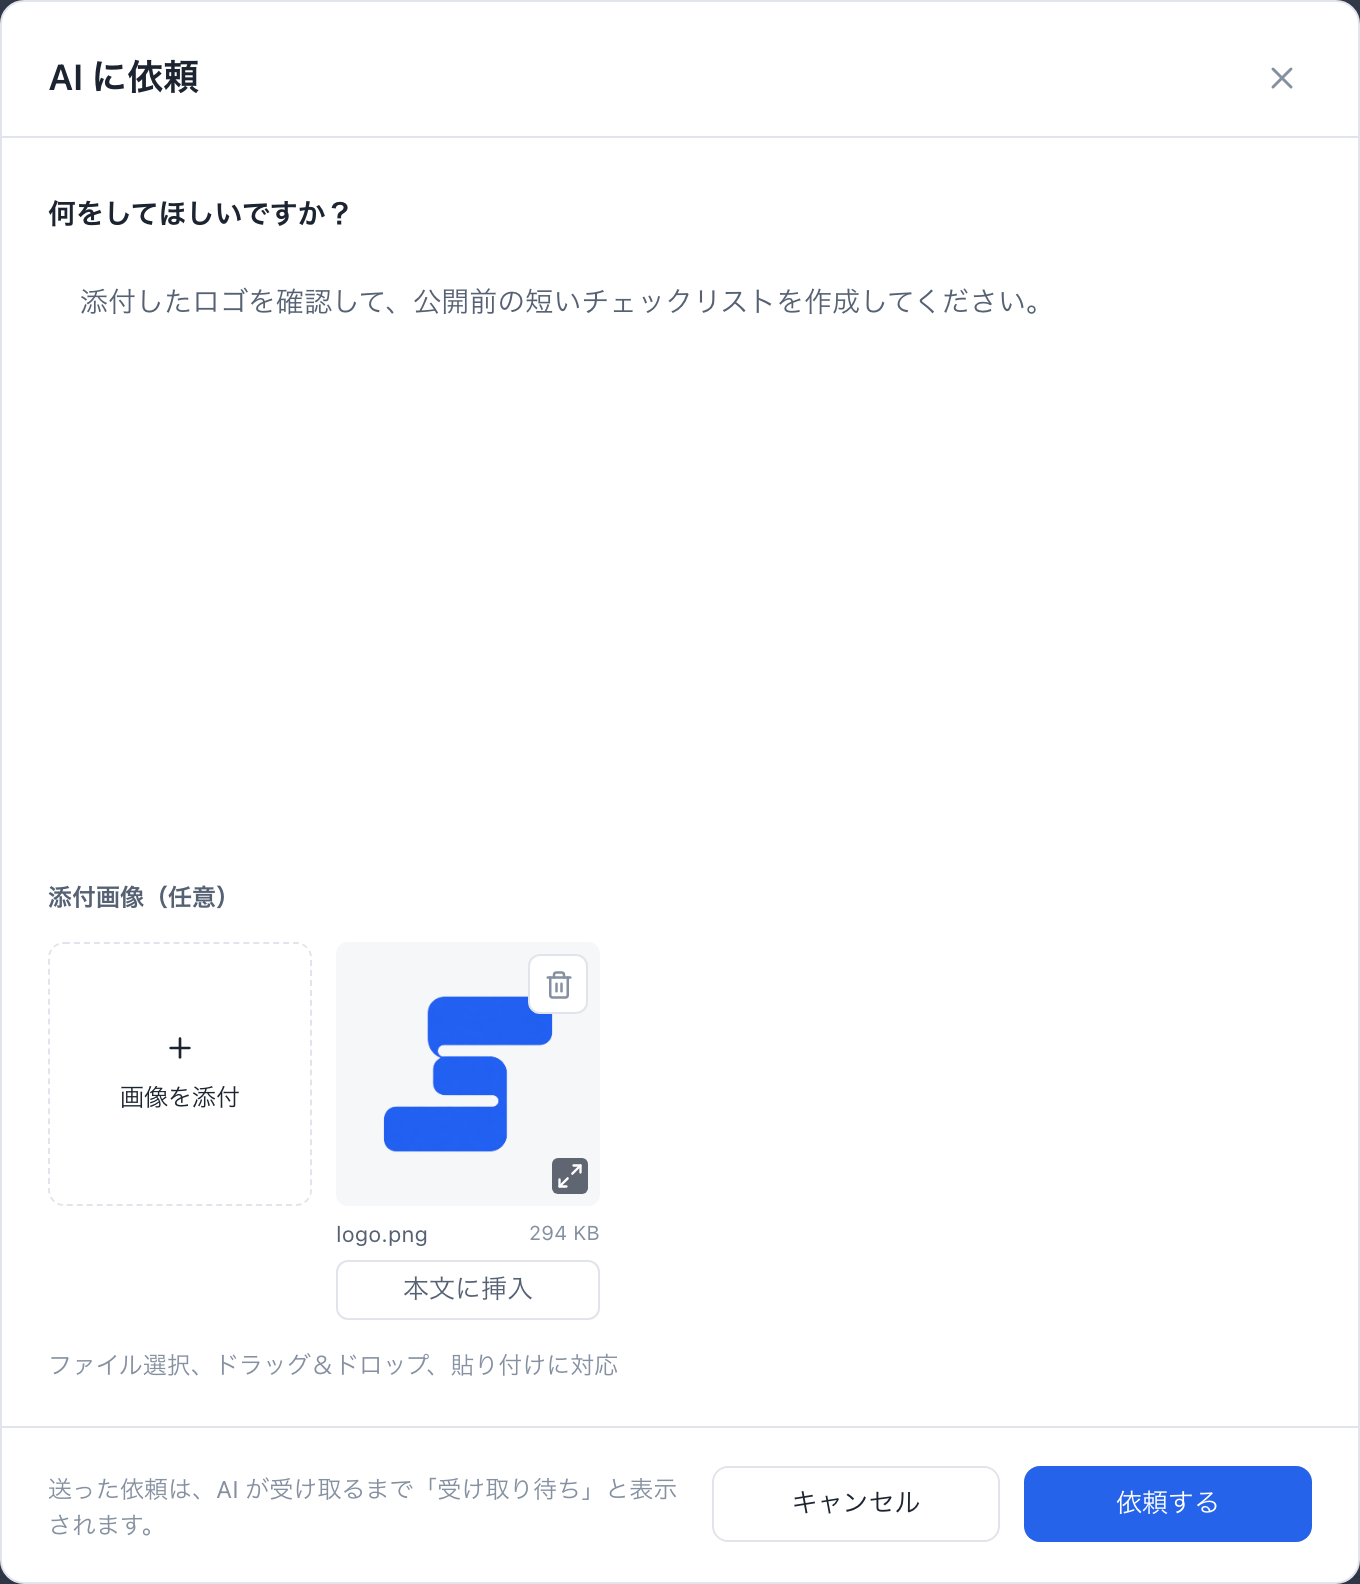
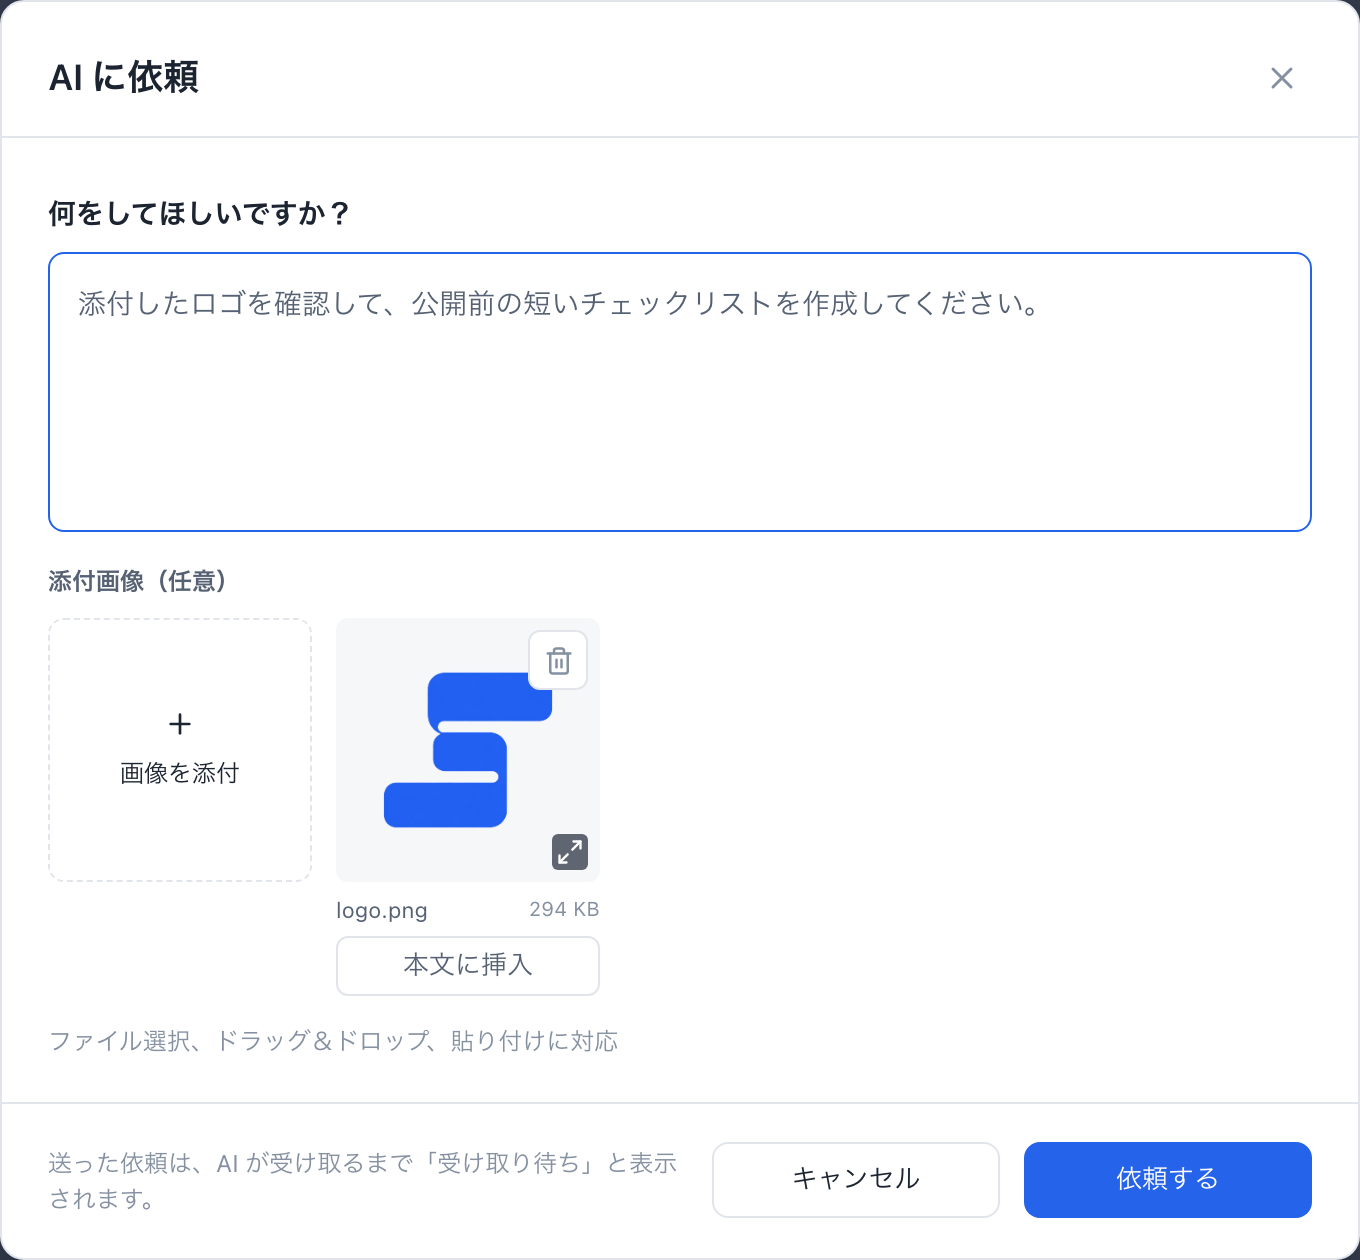
fix(web): align and outline the Ask AI input, one send button on the phone sheet
The input box now has a visible outline in light and dark themes, grows with
its text, and starts its first heading on the top padding. The images sit
under the box on the same left edge in the sheet as well as the dialog. The
phone sheet keeps a single full-width Send request; its close button cancels.

diff --git a/web/src/features/messages/ask/AskAi.stories.tsx b/web/src/features/messages/ask/AskAi.stories.tsx
@@ -120,14 +120,29 @@ export const DialogSendFailed: Story = {
   },
 };
 
-/** The bottom sheet for a phone. */
+/** The bottom sheet for a phone: one full-width send button, the close button cancels, and the
+ * label, the input box, and the images share one left edge. */
 export const Sheet: Story = {
   args: { kind: 'sheet' },
   parameters: { storyFrame: 'monitor' },
   globals: { width: 'phone-375' },
   play: async () => {
-    await expect(await page().findByRole('dialog', { name: 'Ask AI' })).toBeInTheDocument();
-    await expect(page().getByRole('button', { name: 'Send request' })).toBeVisible();
+    const sheet = await page().findByRole('dialog', { name: 'Ask AI' });
+    const send = page().getByRole('button', { name: 'Send request' });
+    await expect(send).toBeVisible();
+    await expect(page().queryByRole('button', { name: /^Cancel$/ })).toBeNull();
+    const left = (selector: string) => {
+      const element = sheet.querySelector(selector);
+      if (element === null) throw new Error(`${selector} is missing`);
+      return Math.round(element.getBoundingClientRect().left);
+    };
+    const edge = left('.ask-ai__label');
+    await expect(left('.ask-ai__box')).toBe(edge);
+    await expect(left('.editor-attachments__header')).toBe(edge);
+    await expect(left('.ask-ai__note')).toBe(edge);
+    await expect(Math.round(send.getBoundingClientRect().width)).toBe(
+      Math.round(sheet.querySelector('.ask-ai__box')?.getBoundingClientRect().width ?? 0),
+    );
   },
 };
 
@@ -142,7 +157,7 @@ export const SheetFilled: Story = {
   },
 };
 
-/** An empty request in the sheet shows the message beside the buttons. */
+/** An empty request in the sheet shows the message above the send button. */
 export const SheetRequired: Story = {
   args: { kind: 'sheet' },
   parameters: { storyFrame: 'monitor' },

diff --git a/web/src/features/messages/ask/ask-ai.css b/web/src/features/messages/ask/ask-ai.css
@@ -12,37 +12,67 @@
   color: var(--r-text);
 }
 
-/* The rich editor box of the task dialogs, with a height that fits a request. */
+/* The input box: an outlined field in the input border colour, as tall as its text between a floor and
+   a ceiling, so a short request leaves no empty block and a long one scrolls inside the box. */
 .ask-ai__box.editor__box {
   flex: none;
-  height: clamp(200px, 34vh, 320px);
-  padding: 12px 16px;
+  height: auto;
+  min-height: 140px;
+  max-height: min(44vh, 360px);
+  padding: 12px 14px;
   overflow-y: auto;
+  border: 1px solid var(--r-input);
+  border-radius: 8px;
+  background: transparent;
   cursor: text;
 }
 
+.ask-ai__box.editor__box:focus-within {
+  border-color: var(--r-accent);
+}
+
 .ask-ai__box .rich-markdown .ProseMirror {
-  min-height: 100%;
+  min-height: 112px;
+}
+
+/* The first block sits on the top padding; a cursor widget may come before it. */
+.ask-ai__box .ProseMirror > :first-child,
+.ask-ai__box .ProseMirror > .ProseMirror-widget:first-child + * {
+  margin-top: 0;
 }
 
 .ask-ai--sheet .ask-ai__box.editor__box {
-  height: clamp(180px, 34vh, 280px);
+  max-height: 38vh;
+}
+
+/* The images sit under the box on the same left edge, in the dialog and in the sheet alike. */
+.ask-ai .ask-ai__images.request-dialog__attachments {
+  flex: none;
+  gap: 10px;
+  margin-top: 8px;
+  padding: 0;
+  overflow: visible;
 }
 
 .ask-ai__note {
   margin: 0;
+  line-height: 18px;
   font-size: 12px;
   color: var(--r-muted);
 }
 
-.ask-ai__buttons {
-  display: grid;
-  grid-template-columns: 1fr 1fr;
-  gap: 10px;
+.ask-ai__submit {
+  width: 100%;
 }
 
 .ask-ai__error {
   margin: 0;
   font-size: 12px;
   color: var(--r-danger);
+}
+
+.ask-ai--sheet {
+  display: flex;
+  flex-direction: column;
+  gap: 16px;
 }

diff --git a/web/src/features/messages/ask/AskAiDialog.tsx b/web/src/features/messages/ask/AskAiDialog.tsx
@@ -162,19 +162,22 @@ export function AskAiDialog({
                 {error}
               </p>
             )}
-            <p className="ask-ai__note">{t('askAi.note')}</p>
-            <div className="ask-ai__buttons">
-              <Button type="button" variant="outline" onClick={onClose}>
-                {t('dialog.cancel')}
-              </Button>
-              <Button type="button" disabled={saving} onClick={() => void submitSheet()}>
-                {t('askAi.submit')}
-              </Button>
-            </div>
+            {/* The close button in the header cancels; the footer keeps the one thing to do. */}
+            <Button
+              type="button"
+              className="ask-ai__submit"
+              disabled={saving}
+              onClick={() => void submitSheet()}
+            >
+              {t('askAi.submit')}
+            </Button>
           </>
         }
       >
-        <div className="ask-ai ask-ai--sheet">{fields}</div>
+        <div className="ask-ai ask-ai--sheet">
+          {fields}
+          <p className="ask-ai__note">{t('askAi.note')}</p>
+        </div>
       </Surface>
     );
   }

diff --git a/docs/ja/guide/watch/editing.md b/docs/ja/guide/watch/editing.md
@@ -46,6 +46,8 @@ title: 編集と画像添付
 
 ボード上部の**AI に依頼**を選ぶと、依頼フォームが開きます。スマートフォンでは、メッセージの帯にある**AI に依頼**から、同じフォームが下からのシートで開きます。やってほしいことを書き、必要なら画像を添付して、**依頼する**を選びます。
 
+入力欄は書いた量に合わせて高くなり、長くなると欄の中でスクロールします。スマートフォンのシートでは、下に**依頼する**ボタンだけが横幅いっぱいに並びます。送らずにやめるときは、右上の閉じるボタンでシートを閉じます。
+
 ![リッチエディター、添付した画像、依頼するボタンを表示したAI に依頼のダイアログ](../../../images/guide/ask-ai.ja.png){.screenshot}
 
 依頼はタスクではなく、エージェントに向けたメッセージです。タスクにもエピックにも紐づけないので、フォームにエピックの選択はありません。エージェントが受け取ると、エージェントが計画に仕立て、その計画がTodoに並びます。あなたはそれを確認して開始します。それまでの間、レーンの上の帯には依頼が**受け取り待ち**として出ます。エージェントが受け取る前なら、依頼は取り下げられます。

diff --git a/docs/guide/watch/editing.md b/docs/guide/watch/editing.md
@@ -46,6 +46,8 @@ A running task opens read-only, with a **Running** chip and the reason **Read-on
 
 Choose **Ask AI** in the board header to open the request form. On a phone, the **Ask AI** button in the messages band opens the same form as a bottom sheet. Write what you want done, attach images if they help, and choose **Send request**.
 
+The input box grows with your text and scrolls inside once it is long. The sheet on a phone has a single **Send request** button across its foot; to leave without sending, close the sheet with the close button at its top right.
+
 ![The Ask AI dialog with the rich editor, an attached image, and the Send request button](../../images/guide/ask-ai.png){.screenshot}
 
 The request is a message to the agents, not a task. It is not linked to any task or epic, so the form has no epic picker. When an agent receives it, the agent decides how to turn it into a plan, and the plan appears in Todo for you to review and start. Until then, the band above the lanes lists the request as **Waiting to be picked up**. You can withdraw a request before an agent receives it.
